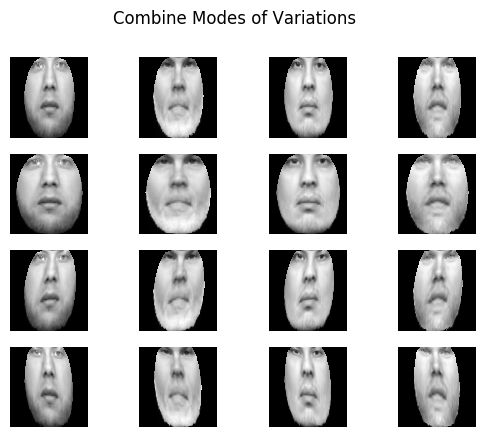
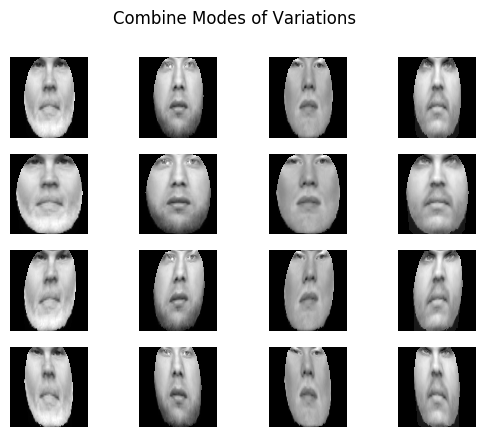
Change some results

diff --git a/code/combine_variation_modes.py b/code/combine_variation_modes.py
@@ -45,7 +45,7 @@ def get_combine_variation_modes(shape_mean, shape_eig_values, shape_eig_vecs, te
 	texture_var_1_plus, texture_var_1_minus = get_individual_variation_mode(texture_eig_values, texture_eig_vecs, texture_mean, 0)
 
 	shape_var_2_plus, shape_var_2_minus = get_individual_variation_mode(shape_eig_values, shape_eig_vecs, shape_mean, 1, scale=10)
-	texture_var_2_plus, texture_var_2_minus = get_individual_variation_mode(texture_eig_values, texture_eig_vecs, texture_mean, 2)
+	texture_var_2_plus, texture_var_2_minus = get_individual_variation_mode(texture_eig_values, texture_eig_vecs, texture_mean, 1)
 
 	f, axarr = plt.subplots(4,4)
 	for s, shape_mode in enumerate([shape_var_1_minus, shape_var_1_plus, shape_var_2_minus, shape_var_2_plus]):		 
